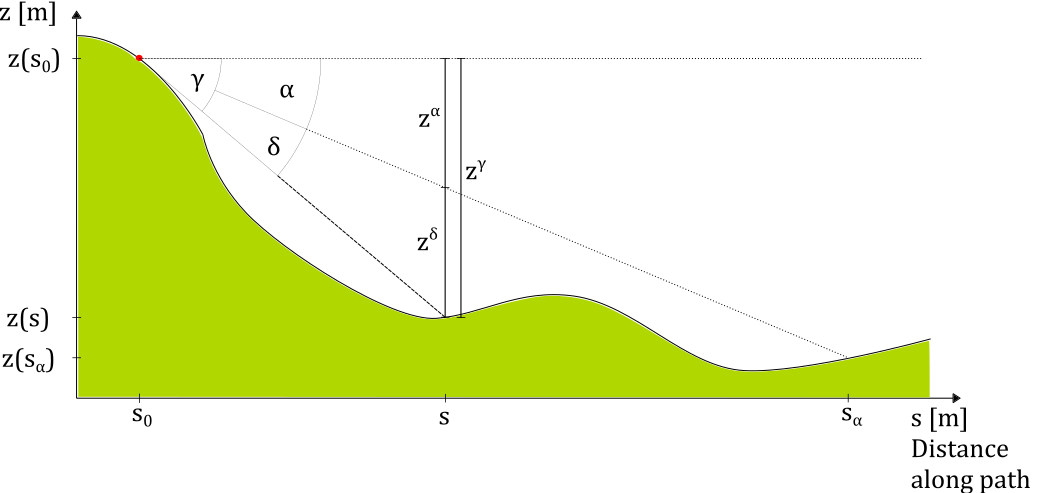
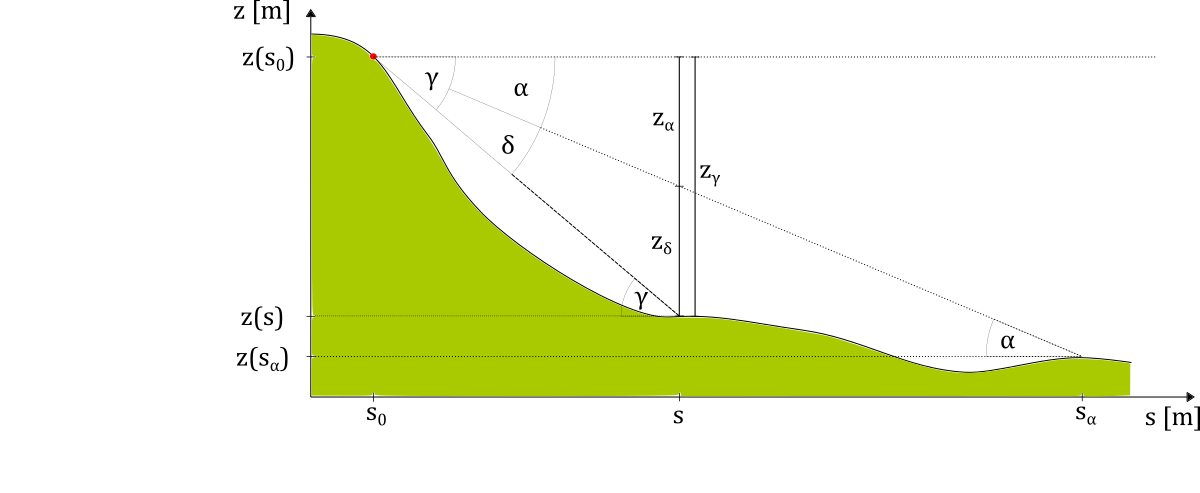
worked on readme

diff --git a/readme.md b/readme.md
@@ -1,16 +1,16 @@
 # Flow-Py
 
-To define protective functions and to quantify the protective effects of forests, we created the Flow-Py model that 
-identifies process areas of gravitational hazards, including avalanches, rockfall and debris slides. The model is 
-written in Python to keep it easy adjustable. The run out routine of Flow-Py is based on the principles of energy 
+Flow-Py is an adaptable open source implementation of existing approaches to GMM (gravitational mass movements) run out models. The main objective of this tool is to compute the spatial run out distribution (routing and stopping) for GMMs in three dimensional terrain. This model has been designed to be computationally light, allowing it application on a regional scale. 
+
+The data based (empirical) modeling approach Flow-Py combining routing and stopping run out in three dimensional terrain allowing to identify process areas and corresponding magnitudes. The model is motivated by a combination of existing process and data based approaches, requiring a minimum of input data, providing valuable output. By considering the spatial evolution (no temporal evolution equations are solved in the model) the resulting run out is mainly dependent by the terrain and the location of the starting point
+
+The model is written in Python to keep it easy adjustable. The run out routine of Flow-Py is based on the principles of energy 
 conservation including frictional dissipation assuming simple coulomb friction, leading to constant travel-angle. 
 Potential release areas and the corresponding travel angle have to be adapted for each type of gravitational mass movements. 
 A important improvement, compared to similar models, is that it can handle mass movement in flat and uphill terrain. 
 One major advantage of this model is its simplicity, resulting in a computationally inexpensive implementation, which 
 allows for an application on a regional scale, covering large simulation areas. The adaptivity of the model further 
 allows to consider existing infrastructure and to detect starting zones endangering the corresponding areas in a back-calculation step. 
-Additionally, by adding forest cover to the simulations we can identify which forest area has a protective function and, 
-based on information about forest structure, calculate the protective effect this forest provides to down slope infrastructure.
 
 ## Running the Code
 
@@ -44,14 +44,12 @@ All Layers need the exact same extend. If not, the Code will give you feedback w
 	
 - Release Zones:
 	- The release layer needs values higher then zero for the release pixels. NoData < 0, or -9999
-	
 ### Optional Input Files:
 
 - Infrastructure:
 	- The infrastructure layer needs values higher then zero for infrastructure. Different values can be used for 
 	different infrastructures classes and will be saved in the backcalculation.
 	- The backcalculation layer has the information of the infrastructure that was hit. Higher values win over lower ones.
-	
 ## Output
 
 - z_delta:
@@ -68,13 +66,16 @@ All Layers need the exact same extend. If not, the Code will give you feedback w
     Saves the &gamma; angle along the flow path
 - Straight Line Travel Angle, SL_TA:
     Saves the &gamma; angle, while the distances are calculated via a straight line from the release cell to the current cell
-    
 ## Calculation Steps
 
 ### z_delta 
 
 ![Image](img/Motivation_2d.png)
 *Fig. 1: Definition of angles and distances for the calculation of z_delta*
+
+The model equations that control the avalanche run out in three dimensional terrain are mostly motivated with respect to simple two dimensional concepts, that control the main routing and final stopping of the flow.
+
+Figure 1 summarizes the basic concept of a constant run out angle with the corresponding geometric relations in two dimensions along a possible process path.
 
 ![tan_alpha](img/tan_alpha.png)
 
@@ -85,15 +86,21 @@ All Layers need the exact same extend. If not, the Code will give you feedback w
 ![z_gamma](img/z_gamma.png)
 
 ![z_delta](img/z_delta.png)
-	
+	To bring this equations into the 3 dimensionsal world we have to extend ... 
+
+
+
+![Declaration of Base, Neighbour and Parent](img/Neighbours.png)
+
+*Fig. 2: Definition of base, neighbor and parent*
+
 ![z_delta_i](img/z_delta_array.png)
 
 ![z_delta_max](img/z_delta_max.png)
 
 ### Terrain based routing
 
-Teh terrain based routing is dependend on the slope angle. The Holmgren (1994) algorithm [1] is used in 
-different kind of models and works well for avalanches but also rockfall or soil slides.
+The terrain based routing is dependent on the slope angle. The Holmgren (1994) algorithm [1] is used in different kind of models and works well for avalanches but also rockfall or soil slides.
 The exponent exp allows to control the divergence of the spreading. For avalanches a exponent of 8 shows good results.
 To reach a single flow in step terrain, an exponent of 75 is considered.
 
@@ -114,7 +121,7 @@ Fig. 2.
 ![tanBetaImage](img/holmgren_vs_new.png)
 *Fig. 2: Distribution functions for terrain based routing, in red the standard Holmgrem, in blue our modification*
 
-### Persistencec Function
+### Persistence Function
 
 The persistence function P_i aims to reproduce the behavior of inertia, and weights the flow 
 direction based on the change in direction with respect to the previous direction (see Fig. 3) [3].
@@ -129,7 +136,7 @@ The weights are defined by the cosine of the direction angles:
 ![](img/persistence_image.png)
 *Fig. 3: jkh*
 
-### Overall Susceptibility 
+### Flux 
 
 The values given by the flow direction algorithm and the weighting of the persistence are combined according to Eq.(13)
 
